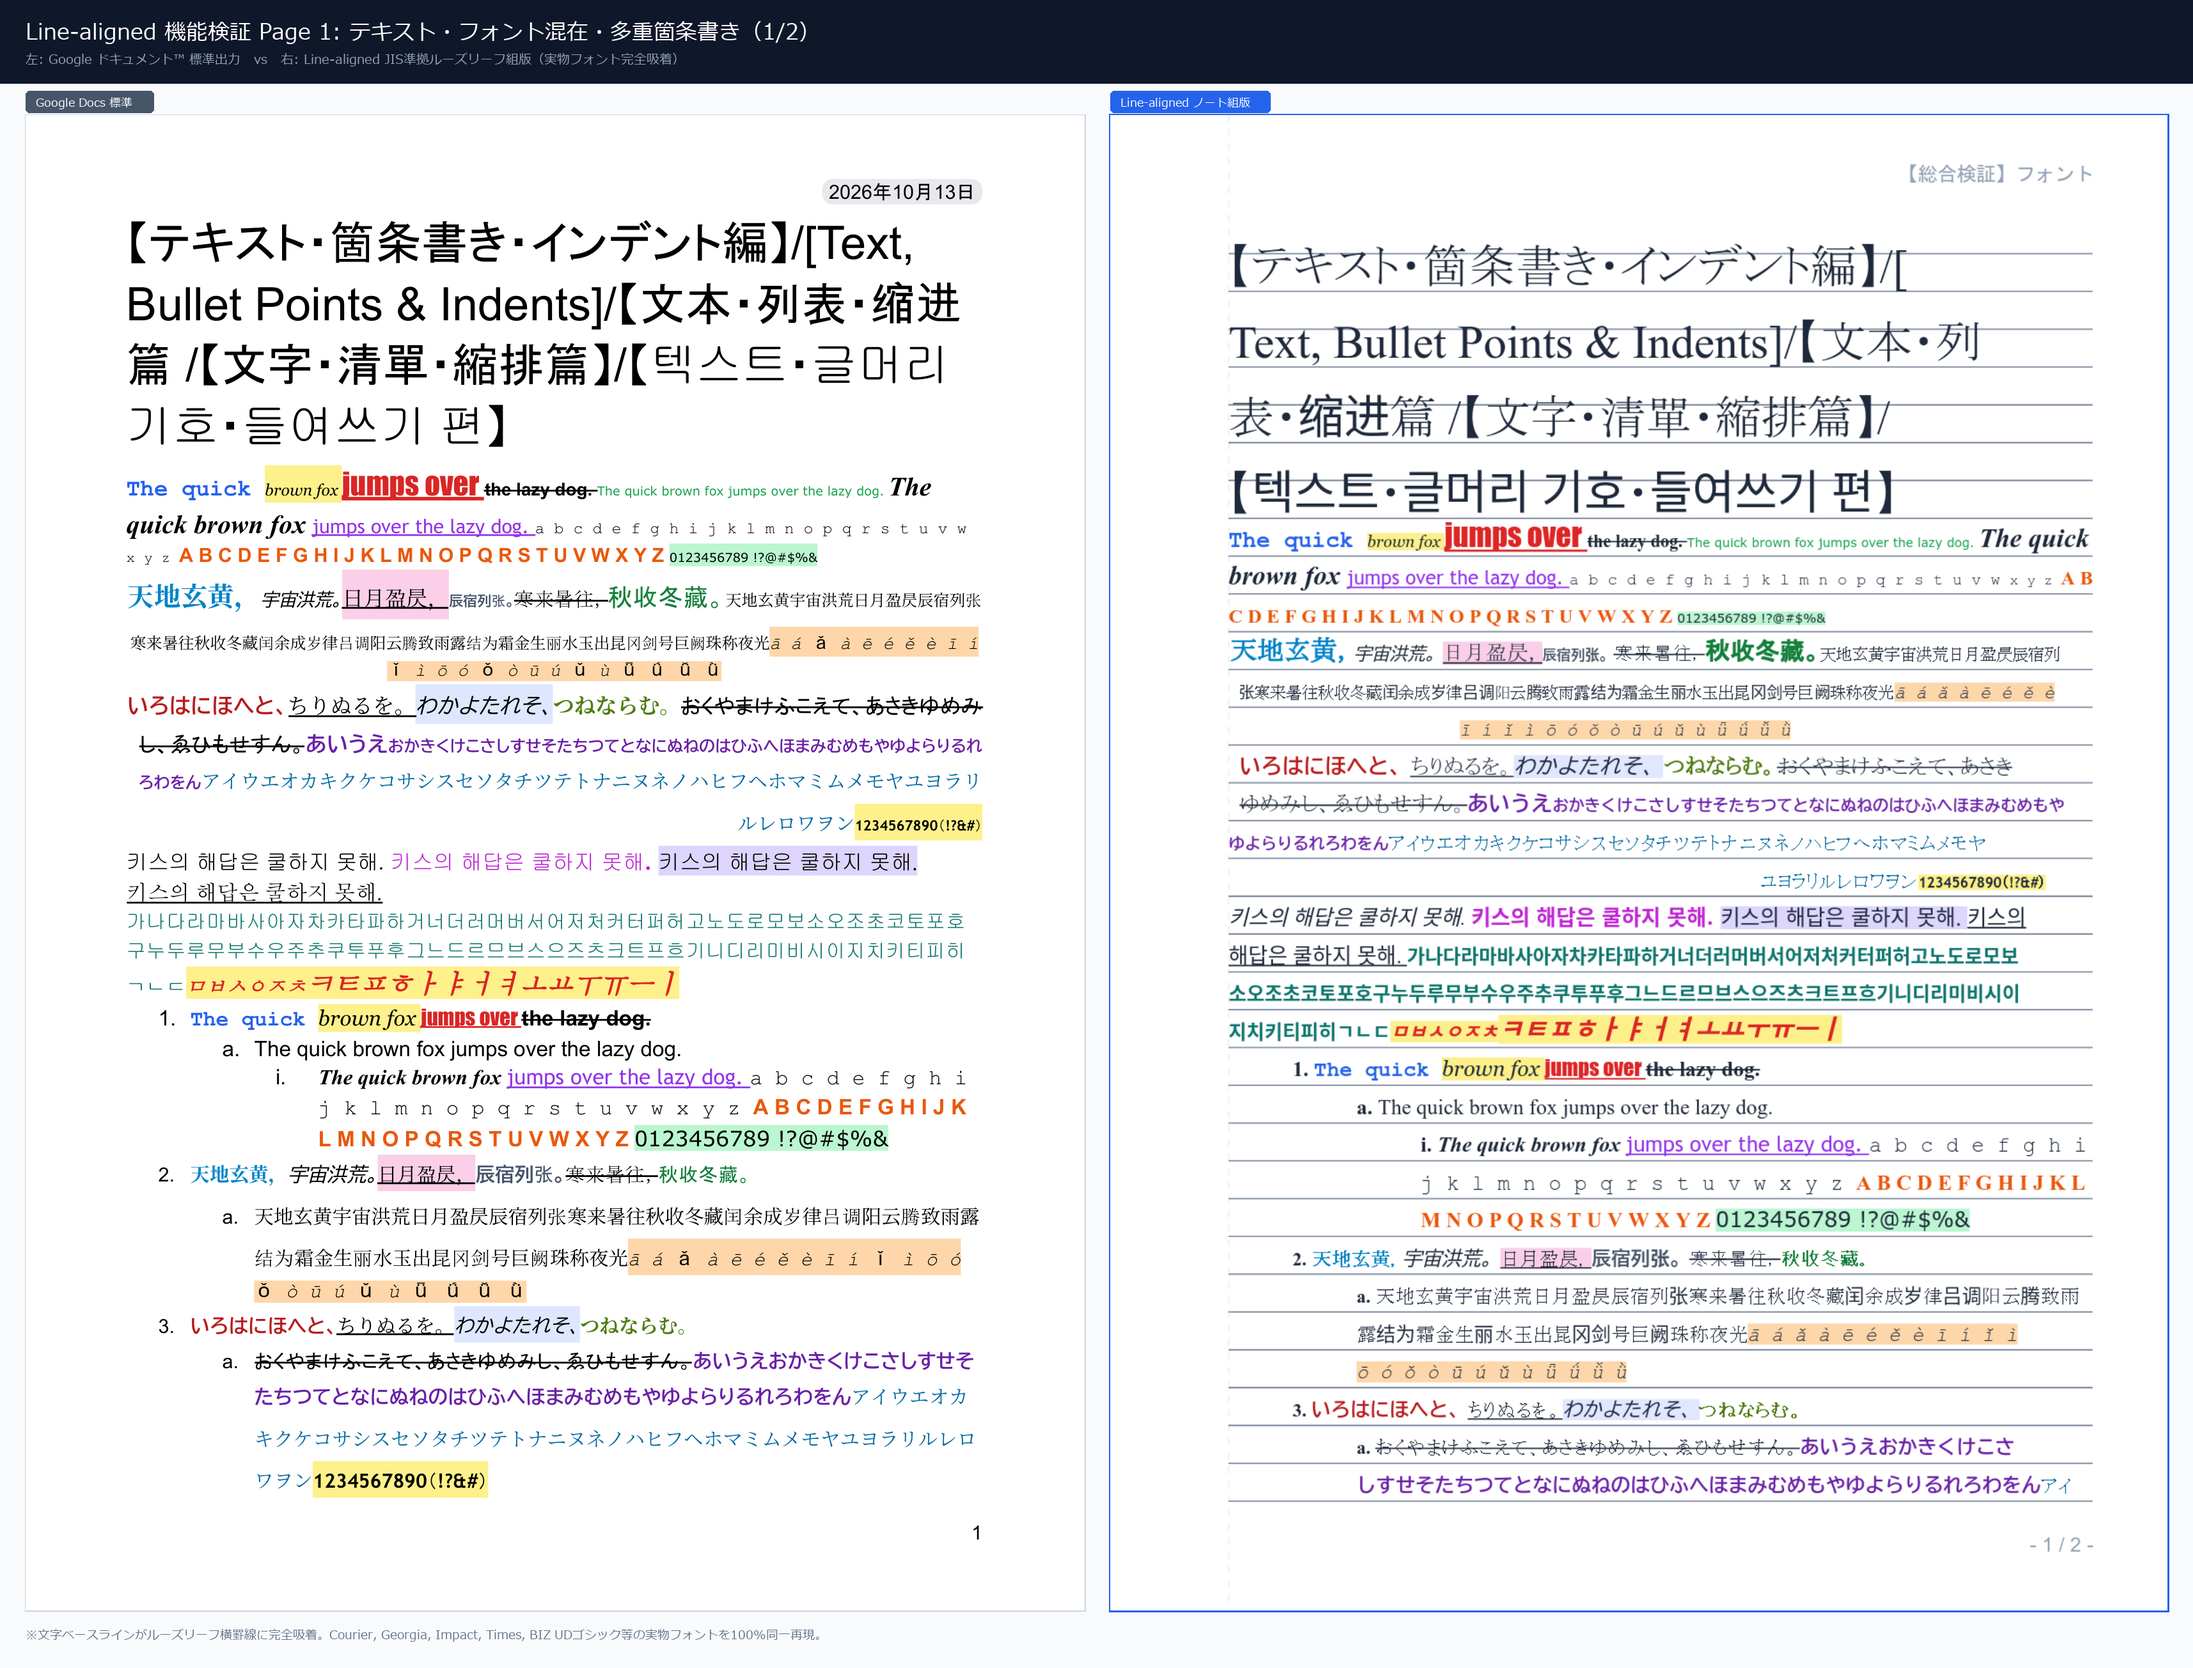
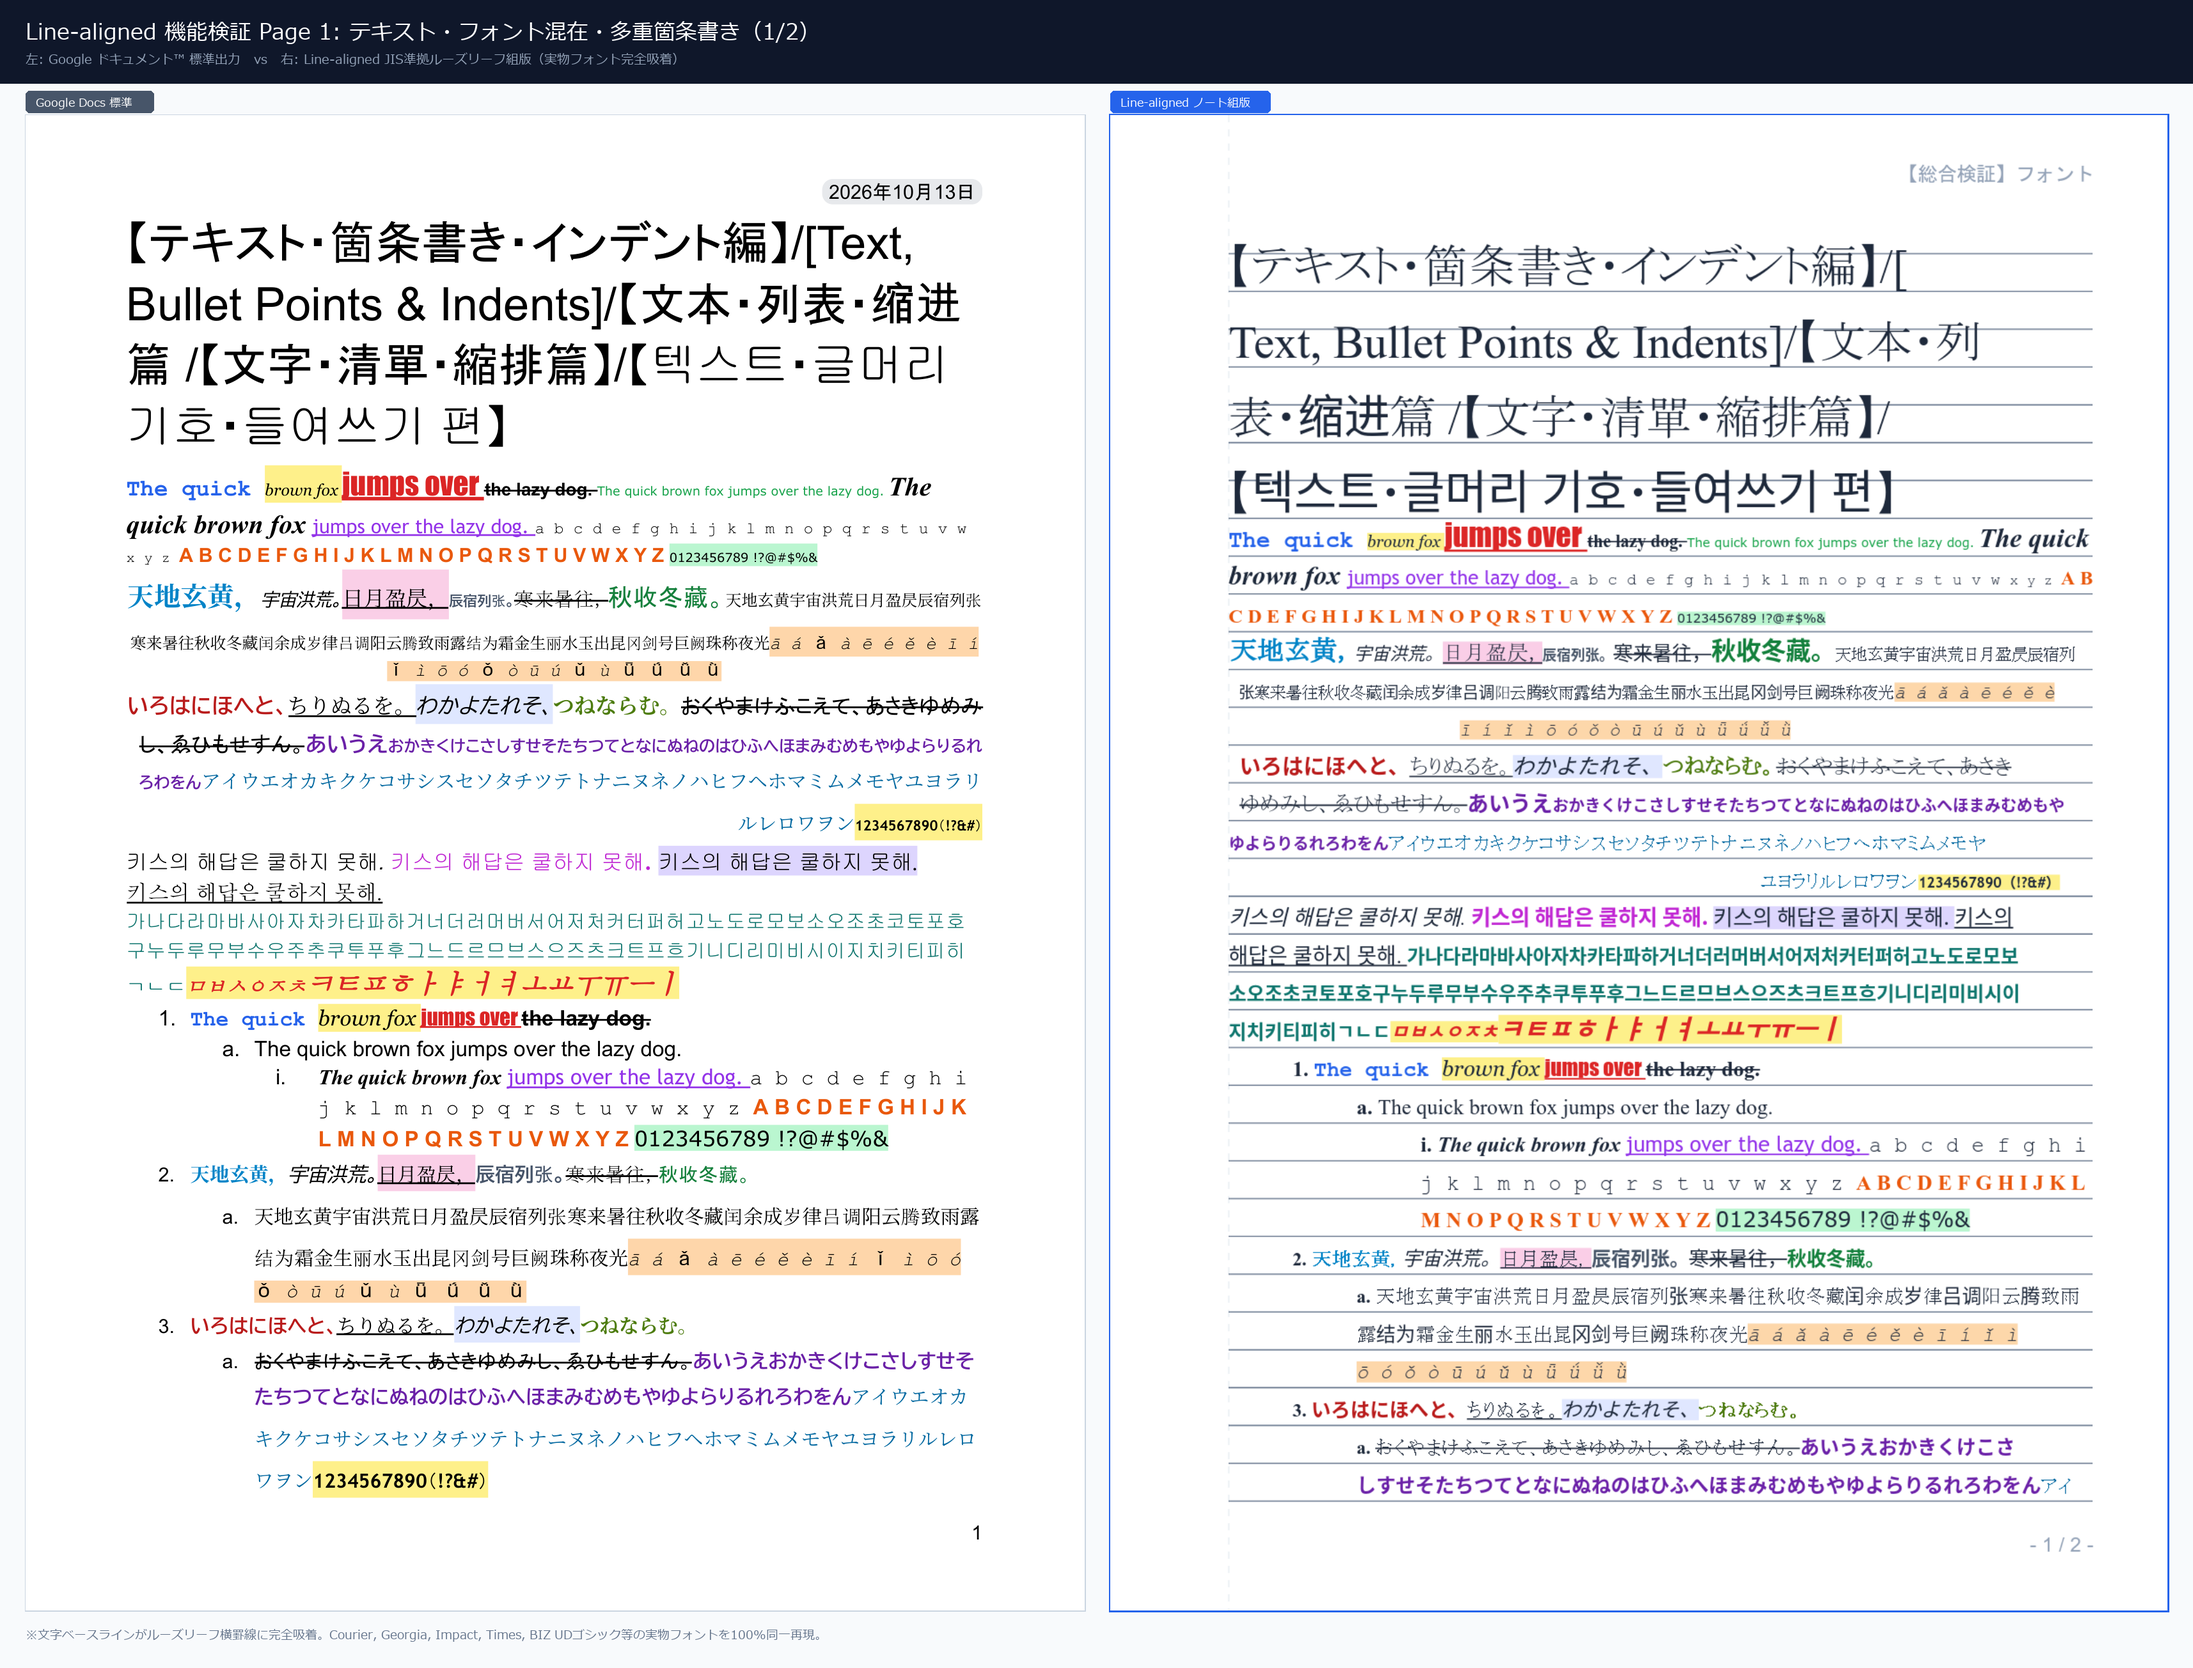
Update font comparison images and cache buster for font inheritance fix

diff --git a/index.html b/index.html
@@ -776,8 +776,8 @@
           <div style="font-weight: 700; font-size: 0.95rem; margin-bottom: 0.5rem; color: var(--text);">
             Page 1: テキスト・フォント混在・多重箇条書き
           </div>
-          <div class="image-viewer" onclick="openImageModal('images/font_verification_page_1_比較（左_GoogleDocs_右_Line-aligned）.png?v=20261013_1641')" style="cursor: pointer; border-radius: 8px; overflow: hidden; border: 1px solid var(--border); box-shadow: 0 4px 15px rgba(0,0,0,0.05);">
-            <img src="images/font_verification_page_1_比較（左_GoogleDocs_右_Line-aligned）.png?v=20261013_1641" alt="Font Verification Page 1 - Left Google Docs, Right Line-aligned Typeset" style="width: 100%; height: auto; display: block;" />
+          <div class="image-viewer" onclick="openImageModal('images/font_verification_page_1_比較（左_GoogleDocs_右_Line-aligned）.png?v=20261013_1733')" style="cursor: pointer; border-radius: 8px; overflow: hidden; border: 1px solid var(--border); box-shadow: 0 4px 15px rgba(0,0,0,0.05);">
+            <img src="images/font_verification_page_1_比較（左_GoogleDocs_右_Line-aligned）.png?v=20261013_1733" alt="Font Verification Page 1 - Left Google Docs, Right Line-aligned Typeset" style="width: 100%; height: auto; display: block;" />
           </div>
           <div style="margin-top: 0.5rem; font-size: 0.8rem; color: var(--text-muted);">
             ※クリックで高解像度拡大表示
@@ -788,8 +788,8 @@
           <div style="font-weight: 700; font-size: 0.95rem; margin-bottom: 0.5rem; color: var(--text);">
             Page 2: 多重箇条書き・ハングル混在・字形完全一致
           </div>
-          <div class="image-viewer" onclick="openImageModal('images/font_verification_page_2_比較（左_GoogleDocs_右_Line-aligned）.png?v=20261013_1641')" style="cursor: pointer; border-radius: 8px; overflow: hidden; border: 1px solid var(--border); box-shadow: 0 4px 15px rgba(0,0,0,0.05);">
-            <img src="images/font_verification_page_2_比較（左_GoogleDocs_右_Line-aligned）.png?v=20261013_1641" alt="Font Verification Page 2 - Left Google Docs, Right Line-aligned Typeset" style="width: 100%; height: auto; display: block;" />
+          <div class="image-viewer" onclick="openImageModal('images/font_verification_page_2_比較（左_GoogleDocs_右_Line-aligned）.png?v=20261013_1733')" style="cursor: pointer; border-radius: 8px; overflow: hidden; border: 1px solid var(--border); box-shadow: 0 4px 15px rgba(0,0,0,0.05);">
+            <img src="images/font_verification_page_2_比較（左_GoogleDocs_右_Line-aligned）.png?v=20261013_1733" alt="Font Verification Page 2 - Left Google Docs, Right Line-aligned Typeset" style="width: 100%; height: auto; display: block;" />
           </div>
           <div style="margin-top: 0.5rem; font-size: 0.8rem; color: var(--text-muted);">
             ※クリックで高解像度拡大表示
